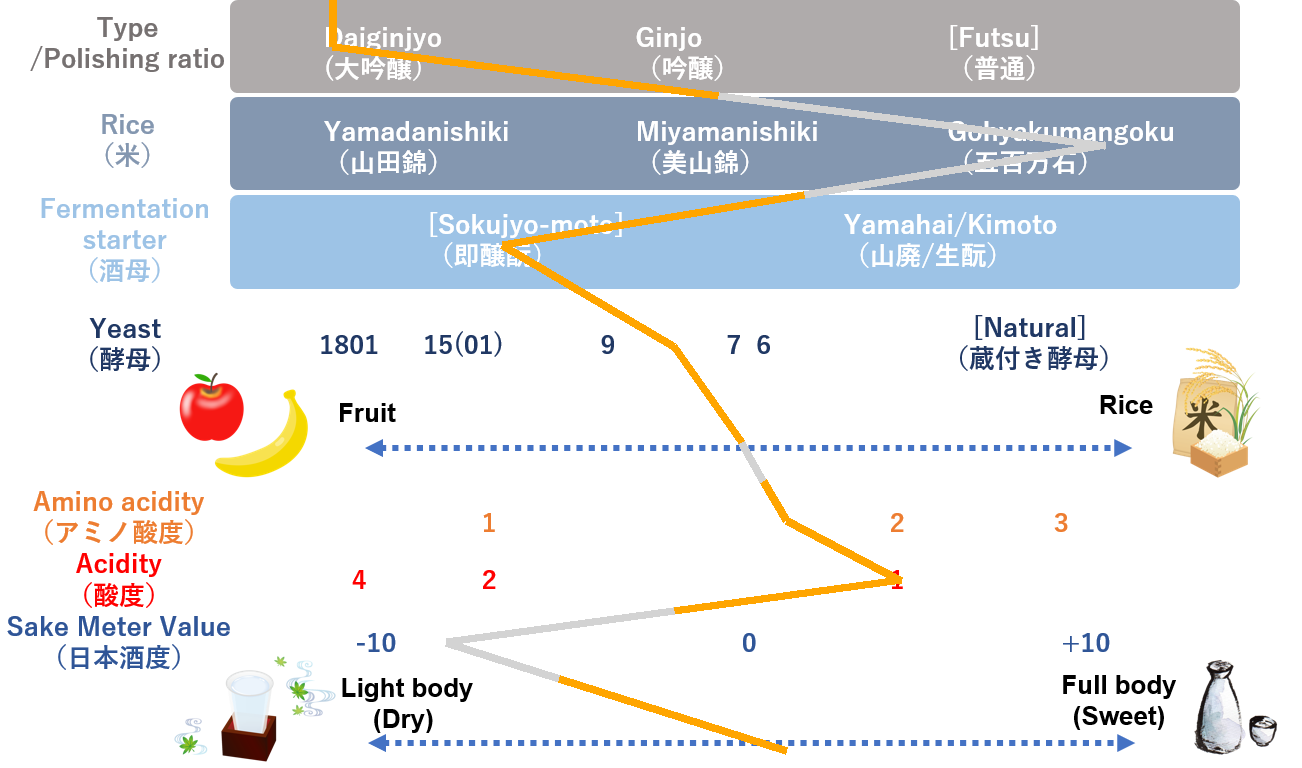
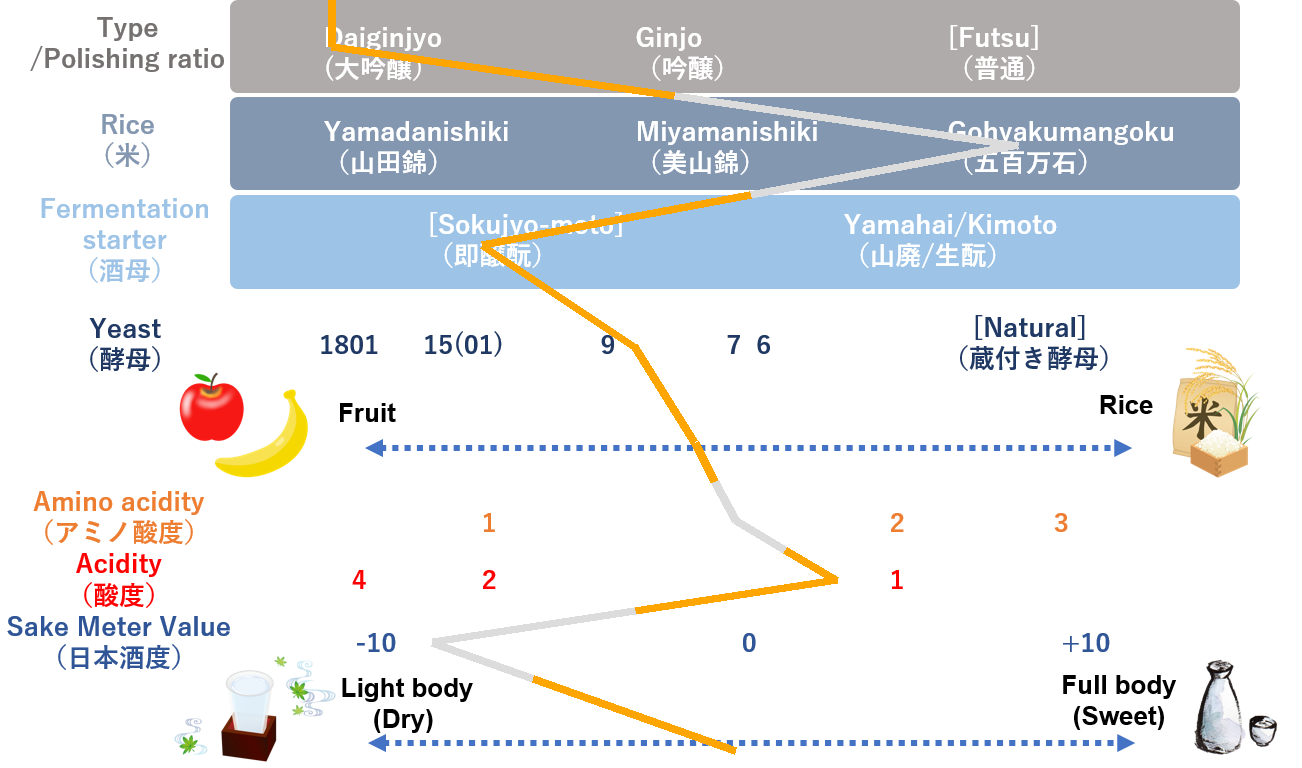
pixcel modification

Changed region(s): [[0.3379, 0.0938, 0.8602, 1.0], [0.3072, 0.0625, 0.3994, 0.0938]]

diff --git a/eval-sake.py b/eval-sake.py
@@ -24,7 +24,7 @@ pic_margin = 225
 pic_width = 1135
 
 solid_color = "orange"
-light_color = "lightgray"
+light_color = "gainsboro"
 
 
 
@@ -49,7 +49,7 @@ for unknown_value in unknown:
     
     if unknown_value and dummy == 1:
         if unknown[dummy-1]:
-            draw_basic.line([(type_x, type_y), (rice_x, rice_y)], fill = "lightgray", width = 8, joint="curve")
+            draw_basic.line([(type_x, type_y), (rice_x, rice_y)], fill = light_color, width = 8, joint="curve")
         if not unknown[dummy-1]:
             draw_basic.line([(type_x, type_y), (type_x+(rice_x-type_x)/2, type_y+(rice_y-type_y)/2)], fill = solid_color, width = 8, joint="curve")
             draw_basic.line([(type_x+(rice_x-type_x)/2, type_y+(rice_y-type_y)/2), (rice_x, rice_y)], fill = light_color, width = 8, joint="curve") 
@@ -63,7 +63,7 @@ for unknown_value in unknown:
 
     if unknown_value and dummy == 2:
         if unknown[dummy-1]:
-            draw_basic.line([(rice_x, rice_y), (shubo_x, shubo_y)], fill = "lightgray", width = 8, joint="curve")
+            draw_basic.line([(rice_x, rice_y), (shubo_x, shubo_y)], fill = light_color, width = 8, joint="curve")
         if not unknown[dummy-1]:
             draw_basic.line([(rice_x, rice_y), (rice_x+(shubo_x-rice_x)/2, rice_y+(shubo_y-rice_y)/2)], fill = solid_color, width = 8, joint="curve")
             draw_basic.line([(rice_x+(shubo_x-rice_x)/2, rice_y+(shubo_y-rice_y)/2), (shubo_x, shubo_y)], fill = light_color, width = 8, joint="curve") 
@@ -79,7 +79,7 @@ for unknown_value in unknown:
     dummy += 1
 
 if not unknown[2]:
-    draw_basic.line([(shubo_x, shubo_y), (result_x, result_y)], fill = "Orange", width = 8, joint="curve")
+    draw_basic.line([(shubo_x, shubo_y), (result_x, result_y)], fill = solid_color, width = 8, joint="curve")
 else:
     draw_basic.line([(shubo_x, shubo_y), (shubo_x+(result_x-shubo_x)/3, shubo_y+(result_y-shubo_y)/3)], fill = light_color, width = 8, joint="curve")
     draw_basic.line([(shubo_x+(result_x-shubo_x)/3, shubo_y+(result_y-shubo_y)/3), (result_x, result_y)], fill = solid_color, width = 8, joint="curve") 
@@ -93,9 +93,8 @@ img_basic.save('basicwline.png')
 
 ### Advanced graph drowing
 
-pic_margin_adv = 219
-pic_width_adv = 1135
-
+pic_margin_adv = 230
+pic_width_adv = 1010
 
 start_x_adv, start_y_adv = pic_margin_adv+(pic_width_adv/100)*type, 0
 type_x_adv, type_y_adv = pic_margin_adv+(pic_width_adv/100)*type, 46
@@ -120,44 +119,44 @@ for unknown_value in unknown_1:
         draw_adv.line([(start_x_adv, start_y_adv), (type_x_adv, type_y_adv)], fill = light_color, width = 8, joint="curve")
     
     if unknown_value and dummy == 1:
-        if unknown[dummy-1]:
-            draw_adv.line([(type_x_adv, type_y_adv), (rice_x_adv, rice_y_adv)], fill = "lightgray", width = 8, joint="curve")
-        if not unknown[dummy-1]:
+        if unknown_1[dummy-1]:
+            draw_adv.line([(type_x_adv, type_y_adv), (rice_x_adv, rice_y_adv)], fill = light_color, width = 8, joint="curve")
+        if not unknown_1[dummy-1]:
             draw_adv.line([(type_x_adv, type_y_adv), (type_x_adv+(rice_x_adv-type_x_adv)/2, type_y_adv+(rice_y_adv-type_y_adv)/2)], fill = solid_color, width = 8, joint="curve")
             draw_adv.line([(type_x_adv+(rice_x_adv-type_x_adv)/2, type_y_adv+(rice_y_adv-type_y_adv)/2), (rice_x_adv, rice_y_adv)], fill = light_color, width = 8, joint="curve") 
 
     if not unknown_value and dummy == 1:
-        if not unknown[dummy-1]:
+        if not unknown_1[dummy-1]:
             draw_adv.line([(type_x_adv, type_y_adv), (rice_x_adv, rice_y_adv)], fill = solid_color, width = 8, joint="curve")
-        if unknown[dummy-1]:
+        if unknown_1[dummy-1]:
             draw_adv.line([(type_x_adv, type_y_adv), (type_x_adv+(rice_x_adv-type_x_adv)/2, type_y_adv+(rice_y_adv-type_y_adv)/2)], fill = light_color, width = 8, joint="curve")
             draw_adv.line([(type_x_adv+(rice_x_adv-type_x_adv)/2, type_y_adv+(rice_y_adv-type_y_adv)/2), (rice_x_adv, rice_y_adv)], fill = solid_color, width = 8, joint="curve") 
 
     if unknown_value and dummy == 2:
-        if unknown[dummy-1]:
-            draw_adv.line([(rice_x_adv, rice_y_adv), (shubo_x_adv, shubo_y_adv)], fill = "lightgray", width = 8, joint="curve")
-        if not unknown[dummy-1]:
+        if unknown_1[dummy-1]:
+            draw_adv.line([(rice_x_adv, rice_y_adv), (shubo_x_adv, shubo_y_adv)], fill = light_color, width = 8, joint="curve")
+        if not unknown_1[dummy-1]:
             draw_adv.line([(rice_x_adv, rice_y_adv), (rice_x_adv+(shubo_x_adv-rice_x_adv)/2, rice_y_adv+(shubo_y_adv-rice_y_adv)/2)], fill = solid_color, width = 8, joint="curve")
             draw_adv.line([(rice_x_adv+(shubo_x_adv-rice_x_adv)/2, rice_y_adv+(shubo_y_adv-rice_y_adv)/2), (shubo_x_adv, shubo_y_adv)], fill = light_color, width = 8, joint="curve") 
 
     if not unknown_value and dummy == 2:
-        if not unknown[dummy-1]:
+        if not unknown_1[dummy-1]:
             draw_adv.line([(rice_x_adv, rice_y_adv), (shubo_x_adv, shubo_y_adv)], fill = solid_color, width = 8, joint="curve")
-        if unknown[dummy-1]:
+        if unknown_1[dummy-1]:
             draw_adv.line([(rice_x_adv, rice_y_adv), (rice_x_adv+(shubo_x_adv-rice_x_adv)/2, rice_y_adv+(shubo_y_adv-rice_y_adv)/2)], fill = light_color, width = 8, joint="curve")
             draw_adv.line([(rice_x_adv+(shubo_x_adv-rice_x_adv)/2, rice_y_adv+(shubo_y_adv-rice_y_adv)/2), (shubo_x_adv, shubo_y_adv)], fill = solid_color, width = 8, joint="curve") 
 
     if unknown_value and dummy == 3:
-        if unknown[dummy-1]:
-            draw_adv.line([(shubo_x_adv, shubo_y_adv), (yeast_x_adv, yeast_y_adv)], fill = "lightgray", width = 8, joint="curve")
-        if not unknown[dummy-1]:
+        if unknown_1[dummy-1]:
+            draw_adv.line([(shubo_x_adv, shubo_y_adv), (yeast_x_adv, yeast_y_adv)], fill = light_color, width = 8, joint="curve")
+        if not unknown_1[dummy-1]:
             draw_adv.line([(shubo_x_adv, shubo_y_adv), (shubo_x_adv+(yeast_x_adv-shubo_x_adv)/2, shubo_y_adv+(yeast_y_adv-shubo_y_adv)/2)], fill = solid_color, width = 8, joint="curve")
             draw_adv.line([(shubo_x_adv+(yeast_x_adv-shubo_x_adv)/2, shubo_y_adv+(yeast_y_adv-shubo_y_adv)/2), (yeast_x_adv, yeast_y_adv)], fill = light_color, width = 8, joint="curve") 
 
     if not unknown_value and dummy == 3:
-        if not unknown[dummy-1]:
+        if not unknown_1[dummy-1]:
             draw_adv.line([(shubo_x_adv, shubo_y_adv), (yeast_x_adv, yeast_y_adv)], fill = solid_color, width = 8, joint="curve")
-        if unknown[dummy-1]:
+        if unknown_1[dummy-1]:
             draw_adv.line([(shubo_x_adv, shubo_y_adv), (shubo_x_adv+(yeast_x_adv-shubo_x_adv)/2, shubo_y_adv+(yeast_y_adv-shubo_y_adv)/2)], fill = light_color, width = 8, joint="curve")
             draw_adv.line([(shubo_x_adv+(yeast_x_adv-shubo_x_adv)/2, shubo_y_adv+(yeast_y_adv-shubo_y_adv)/2), (yeast_x_adv, yeast_y_adv)], fill = solid_color, width = 8, joint="curve")
 
@@ -167,7 +166,7 @@ for unknown_value in unknown_1:
 ### draw result　(fruit or rice)
 
 if not unknown_1[2]:
-    draw_adv.line([(yeast_x_adv, yeast_y_adv), (result_x_adv, result_y_adv)], fill = "Orange", width = 8, joint="curve")
+    draw_adv.line([(yeast_x_adv, yeast_y_adv), (result_x_adv, result_y_adv)], fill = solid_color, width = 8, joint="curve")
 else:
     draw_adv.line([(yeast_x_adv, yeast_y_adv), (yeast_x_adv+(result_x_adv-yeast_x_adv)/2, yeast_y_adv+(result_y_adv-yeast_y_adv)/2)], fill = light_color, width = 8, joint="curve")
     draw_adv.line([(yeast_x_adv+(result_x_adv-yeast_x_adv)/2, yeast_y_adv+(result_y_adv-yeast_y_adv)/2), (result_x_adv, result_y_adv)], fill = solid_color, width = 8, joint="curve") 
@@ -176,10 +175,10 @@ else:
 ### start dwowing again from result
 
 if not unknown_1[4]:
-    draw_adv.line([(result_x_adv, result_y_adv), (amino_x_adv, amino_y_adv)], fill = "Orange", width = 8, joint="curve")
+    draw_adv.line([(result_x_adv, result_y_adv), (amino_x_adv, amino_y_adv)], fill = solid_color, width = 8, joint="curve")
 else:
-    draw_adv.line([(result_x_adv, result_y_adv), (result_x_adv+(amino_x_adv-result_x_adv)/2, result_y_adv+(amino_y_adv-result_y_adv)/2)], fill = light_color, width = 8, joint="curve")
-    draw_adv.line([(result_x_adv+(amino_x_adv-result_x_adv)/2, result_y_adv+(amino_y_adv-result_y_adv)/2), (amino_x_adv, amino_y_adv)], fill = solid_color, width = 8, joint="curve") 
+    draw_adv.line([(result_x_adv, result_y_adv), (result_x_adv+(amino_x_adv-result_x_adv)/2, result_y_adv+(amino_y_adv-result_y_adv)/2)], fill = solid_color, width = 8, joint="curve")
+    draw_adv.line([(result_x_adv+(amino_x_adv-result_x_adv)/2, result_y_adv+(amino_y_adv-result_y_adv)/2), (amino_x_adv, amino_y_adv)], fill = light_color, width = 8, joint="curve") 
 
 
 unknown_2 = [acid_unknown, smv_unknown]
@@ -187,23 +186,33 @@ unknown_2 = [acid_unknown, smv_unknown]
 dummy = 0
 
 for unknown_value in unknown_2:
-    if not unknown_value and dummy == 0:
-        draw_adv.line([(amino_x_adv, amino_y_adv), (acid_x_adv, acid_y_adv)], fill = solid_color, width = 8, joint="curve")
-    
     if unknown_value and dummy == 0:
-        draw_adv.line([(amino_x_adv, amino_y_adv), (acid_x_adv, acid_y_adv)], fill = light_color, width = 8, joint="curve")
-    
+        if unknown_1[-1]:
+            draw_adv.line([(amino_x_adv, amino_y_adv), (acid_x_adv, acid_y_adv)], fill = light_color, width = 8, joint="curve")
+        if not unknown_1[-1]:
+            draw_adv.line([(amino_x_adv, amino_y_adv), (amino_x_adv+(acid_x_adv-amino_x_adv)/2, amino_y_adv+(acid_y_adv-amino_y_adv)/2)], fill = solid_color, width = 8, joint="curve")
+            draw_adv.line([(amino_x_adv+(acid_x_adv-amino_x_adv)/2, amino_y_adv+(acid_y_adv-amino_y_adv)/2), (acid_x_adv, acid_y_adv)], fill = light_color, width = 8, joint="curve") 
+
+    if not unknown_value and dummy == 0:
+        if not unknown_1[-1]:
+            draw_adv.line([(amino_x_adv, amino_y_adv), (acid_x_adv, acid_y_adv)], fill = solid_color, width = 8, joint="curve")
+        if unknown_1[-1]:
+            draw_adv.line([(amino_x_adv, amino_y_adv), (amino_x_adv+(acid_x_adv-amino_x_adv)/2, amino_y_adv+(acid_y_adv-amino_y_adv)/2)], fill = light_color, width = 8, joint="curve")
+            draw_adv.line([(amino_x_adv+(acid_x_adv-amino_x_adv)/2, amino_y_adv+(acid_y_adv-amino_y_adv)/2), (acid_x_adv, acid_y_adv)], fill = solid_color, width = 8, joint="curve") 
+   
+
+
     if unknown_value and dummy == 1:
-        if unknown[dummy-1]:
-            draw_adv.line([(acid_x_adv, acid_y_adv), (smv_x_adv, smv_y_adv)], fill = "lightgray", width = 8, joint="curve")
-        if not unknown[dummy-1]:
+        if unknown_2[dummy-1]:
+            draw_adv.line([(acid_x_adv, acid_y_adv), (smv_x_adv, smv_y_adv)], fill = light_color, width = 8, joint="curve")
+        if not unknown_2[dummy-1]:
             draw_adv.line([(acid_x_adv, acid_y_adv), (acid_x_adv+(smv_x_adv-acid_x_adv)/2, acid_y_adv+(smv_y_adv-acid_y_adv)/2)], fill = solid_color, width = 8, joint="curve")
             draw_adv.line([(acid_x_adv+(smv_x_adv-acid_x_adv)/2, acid_y_adv+(smv_y_adv-acid_y_adv)/2), (smv_x_adv, smv_y_adv)], fill = light_color, width = 8, joint="curve") 
 
     if not unknown_value and dummy == 1:
-        if not unknown[dummy-1]:
+        if not unknown_2[dummy-1]:
             draw_adv.line([(acid_x_adv, acid_y_adv), (smv_x_adv, smv_y_adv)], fill = solid_color, width = 8, joint="curve")
-        if unknown[dummy-1]:
+        if unknown_2[dummy-1]:
             draw_adv.line([(acid_x_adv, acid_y_adv), (acid_x_adv+(smv_x_adv-acid_x_adv)/2, acid_y_adv+(smv_y_adv-acid_y_adv)/2)], fill = light_color, width = 8, joint="curve")
             draw_adv.line([(acid_x_adv+(smv_x_adv-acid_x_adv)/2, acid_y_adv+(smv_y_adv-type_y_adv)/2), (smv_x_adv, smv_y_adv)], fill = solid_color, width = 8, joint="curve") 
 
@@ -213,7 +222,7 @@ for unknown_value in unknown_2:
 ### draw body　(full or light)
 
 if not unknown_2[1]:
-    draw_adv.line([(smv_x_adv, smv_y_adv), (body_x_adv, body_y_adv)], fill = "Orange", width = 8, joint="curve")
+    draw_adv.line([(smv_x_adv, smv_y_adv), (body_x_adv, body_y_adv)], fill = solid_color, width = 8, joint="curve")
 else:
     draw_adv.line([(smv_x_adv, smv_y_adv), (smv_x_adv+(body_x_adv-smv_x_adv)/3, smv_y_adv+(body_y_adv-smv_y_adv)/3)], fill = light_color, width = 8, joint="curve")
     draw_adv.line([(smv_x_adv+(body_x_adv-smv_x_adv)/3, smv_y_adv+(body_y_adv-smv_y_adv)/3), (body_x_adv, body_y_adv)], fill = solid_color, width = 8, joint="curve") 
